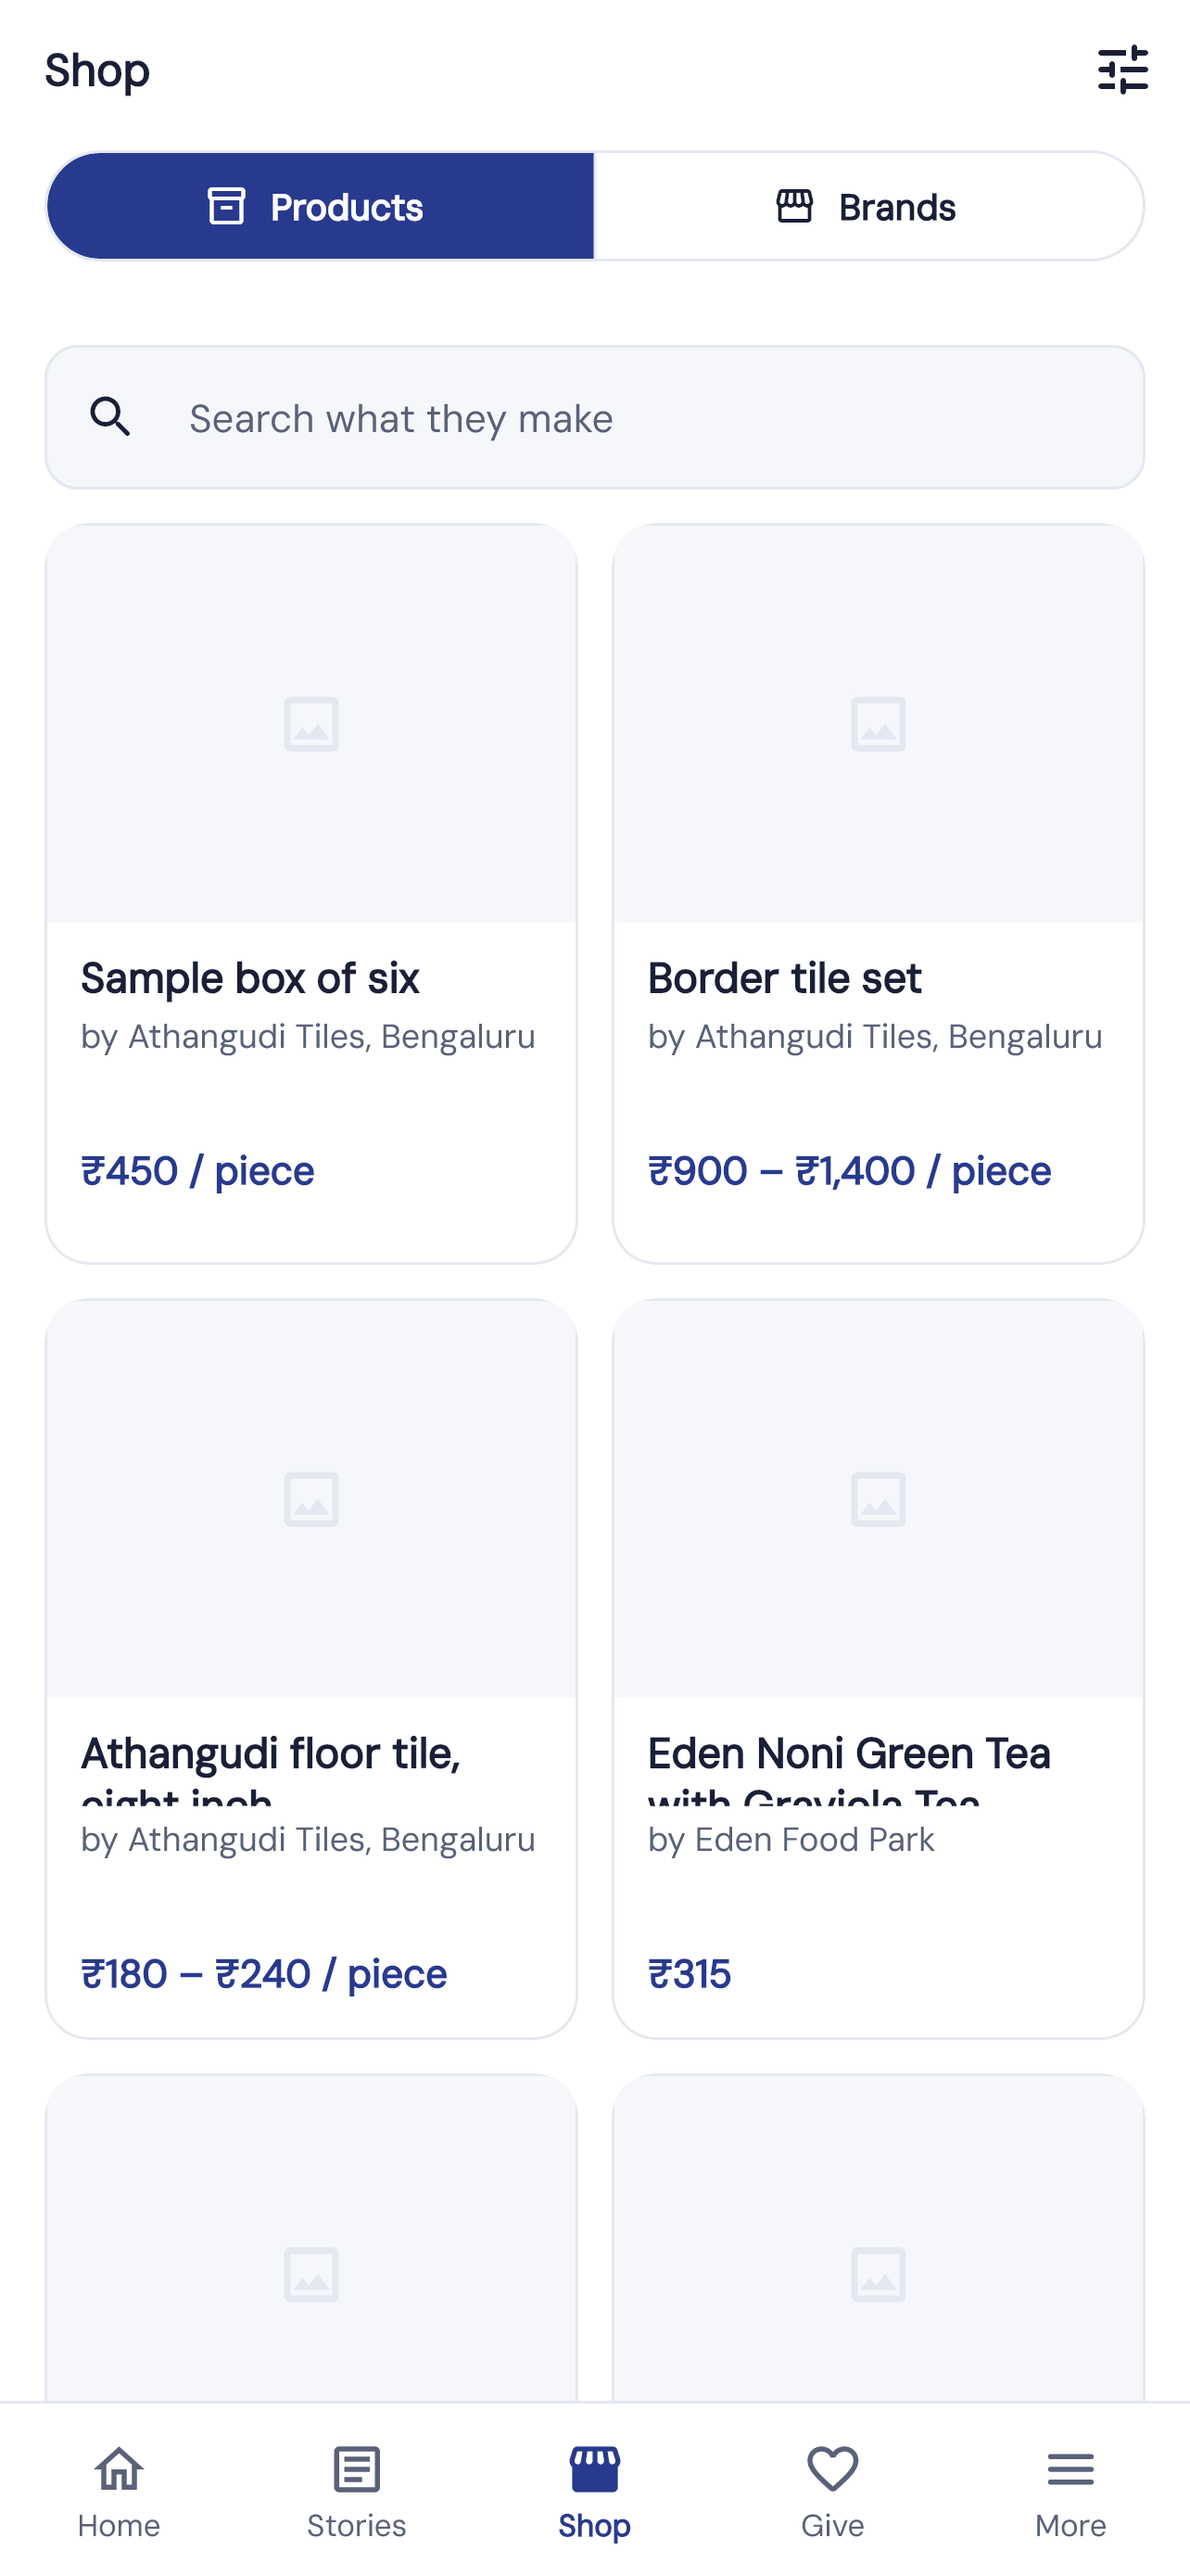
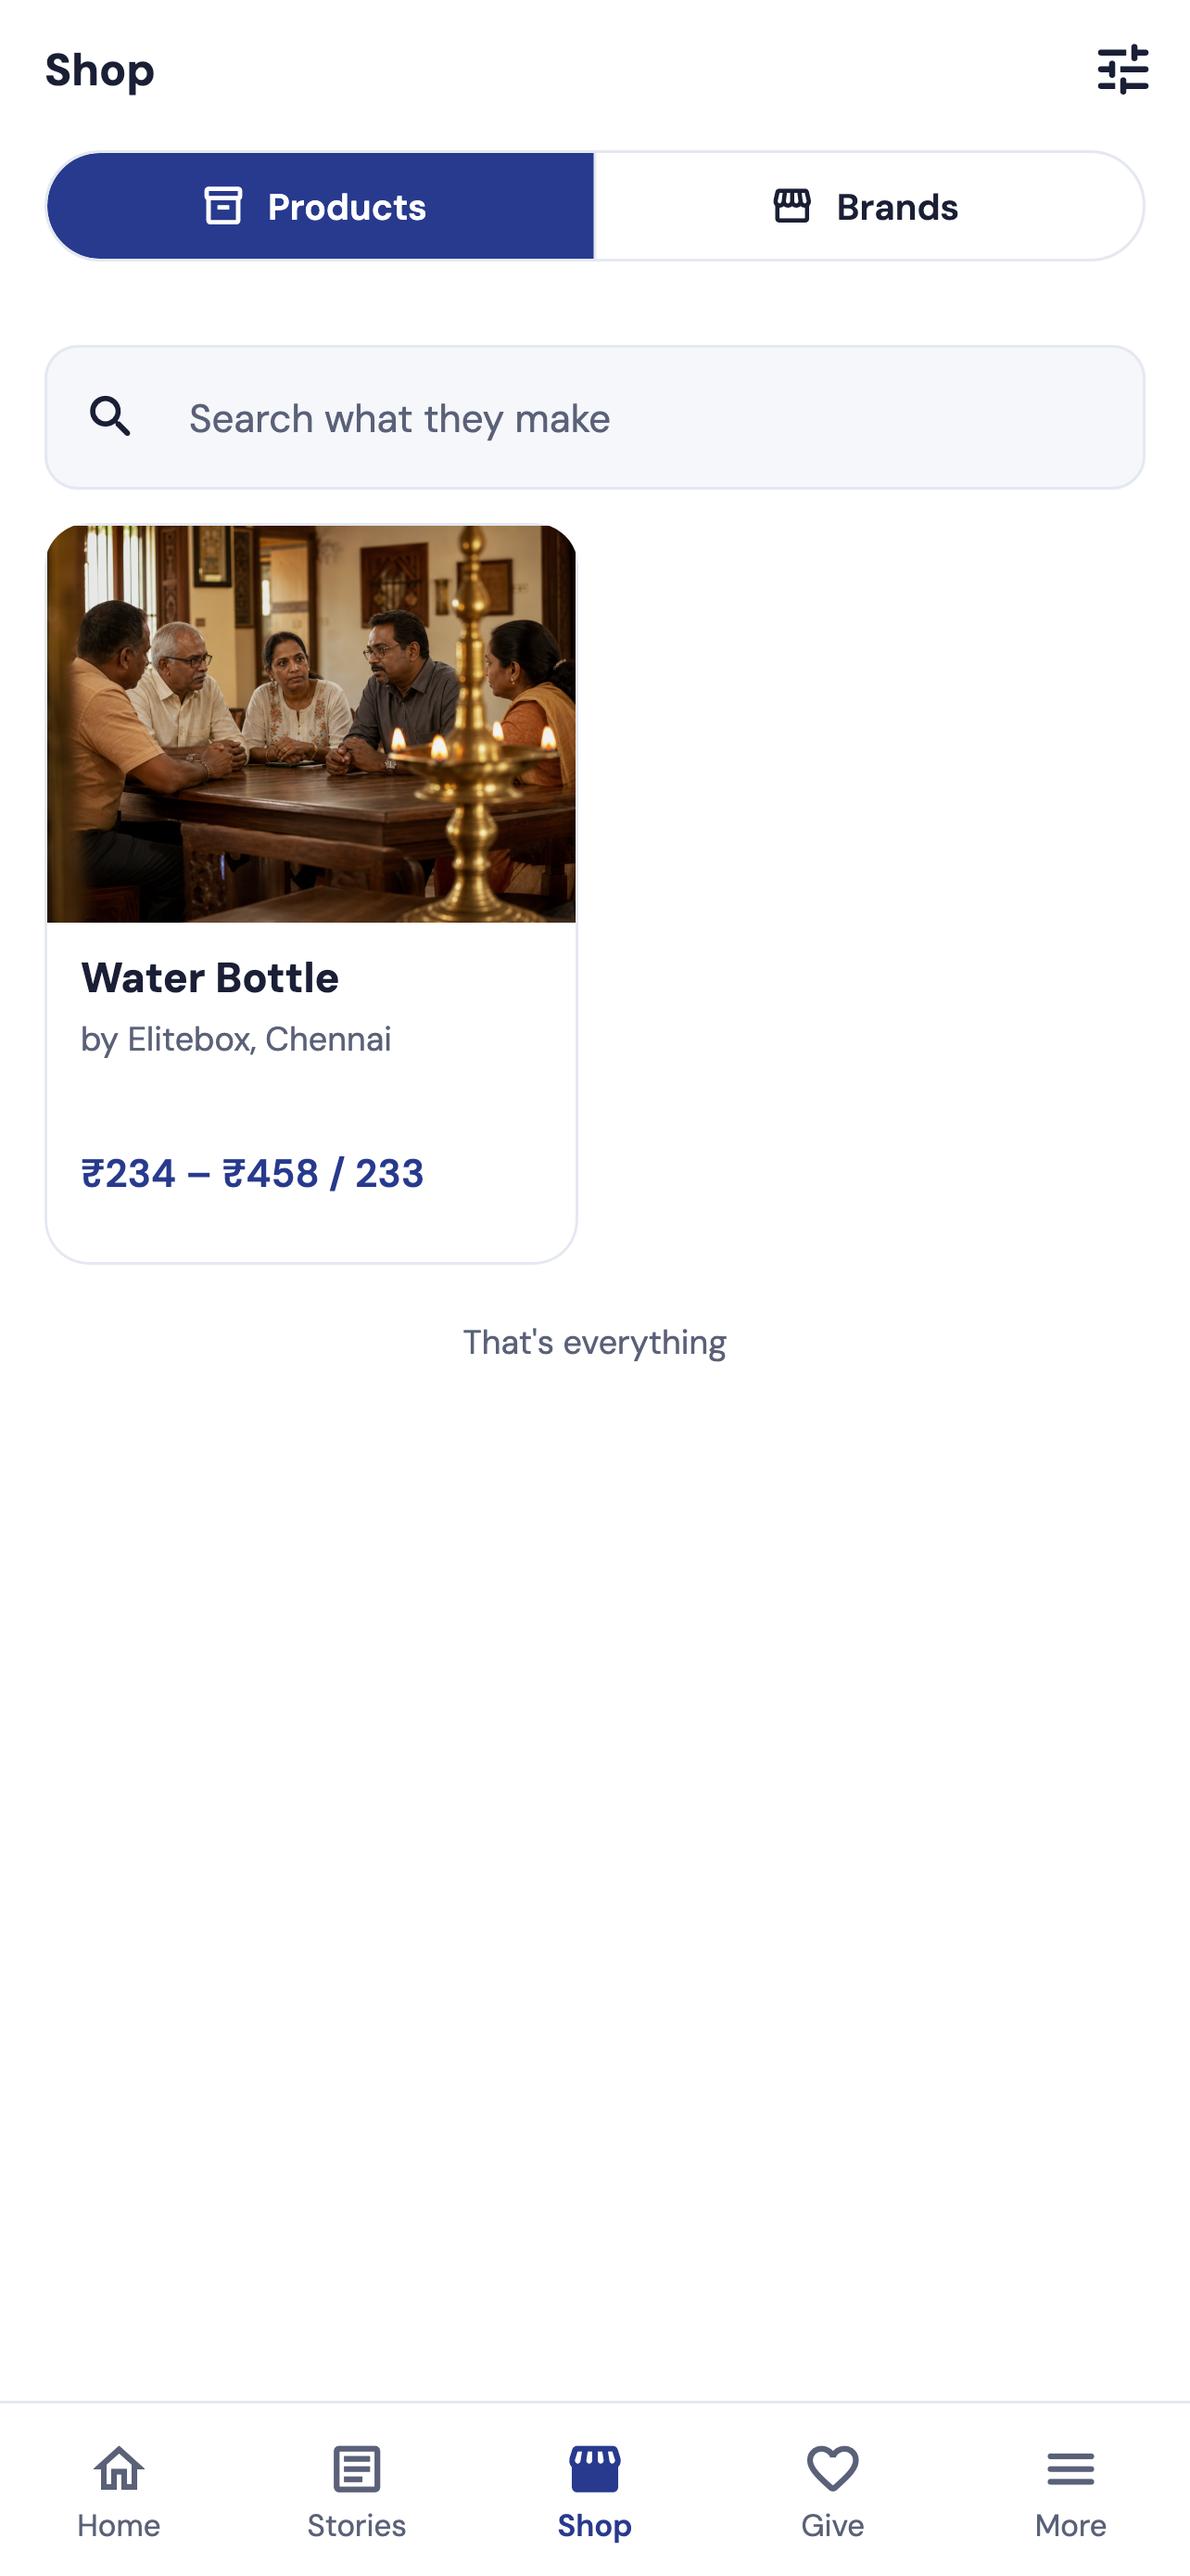
Load the pictures the screenshot tool was missing
The shop shot was a grid of empty grey boxes and the home page a grid of grey
rectangles where the subjects should be. Both for the same reason: `_loadImages`
predates the shop and the new front page, so product thumbnails, brand logos,
the category tiles, the footer banner, the CTA and promo images were never
fetched. AppImage's override then handed back null for each and every one of
them fell back to a placeholder.

Nothing said so. A card that cannot reach its photograph lays out perfectly.
The only symptom was the MissingPluginException for path_provider that the run
has been printing for weeks — an image not in the preload set falls through to
the real cache manager, which needs a temp directory a widget test does not
have. Preloading the rest of them silences it: 73 of 73 now, and all seven pass.

Emoji come from Apple Color Emoji, registered into each family rather than
beside it: a FontLoader given several files makes one family and falls through
for a missing glyph, which is the only fallback chain available under
`flutter test`. Editors put emoji in headings, and they were rendering as tofu
in the listing artwork while looking correct on a phone. The path is macOS-only
and `register` skips what does not exist, so nothing breaks elsewhere.

Screenshots re-shot against 1.1.0 and flattened to RGB, which App Store Connect
requires and reports as a dimension error when missing.

diff --git a/tool/screenshots.dart b/tool/screenshots.dart
@@ -167,6 +167,20 @@ Future<void> _loadImages(_Snapshot s) async {
   for (final b in s.home.banners) {
     add(b.bestImage);
   }
+  // The rest of the front page. The category tiles are the visible ones —
+  // without them the home screenshot is a grid of grey rectangles where the
+  // subjects should be — but every one of these renders a placeholder just as
+  // quietly if it is missed.
+  add(s.home.footerBanner?.bestImage);
+  add(s.home.ctaImage);
+  add(s.home.promoImages.craft);
+  add(s.home.promoImages.discover);
+  for (final tile in s.home.postCategories) {
+    add(tile.image);
+  }
+  for (final t in s.home.testimonials) {
+    add(t.avatar);
+  }
   for (final p in [...s.home.featuredStories, ...s.posts.items, ...s.trending]) {
     add(p.thumbnail);
   }
@@ -183,6 +197,21 @@ Future<void> _loadImages(_Snapshot s) async {
   }
   for (final g in s.galleries.items) {
     add(g.cover);
+  }
+  // The shop. Without these every product card renders its placeholder, and
+  // the listing screenshot is a grid of empty grey boxes — which is what it
+  // was, because a card that cannot reach its photograph still lays out
+  // perfectly and nothing in the run says a word.
+  for (final product in s.products.items) {
+    add(product.thumbnail);
+  }
+  for (final brand in s.brands) {
+    add(brand.logo);
+  }
+  for (final detail in s.productDetails.values) {
+    for (final photo in detail.images) {
+      add(photo.url);
+    }
   }
   for (final section in s.press) {
     for (final item in section.items) {
@@ -297,7 +326,13 @@ Future<void> _loadFonts() async {
   // fontWeight. google_fonts sets both the per-weight family name and the
   // weight, so registering one file under every name renders each at its own
   // weight rather than flattening the lot to regular.
-  final text = _textFontPaths();
+  // The emoji face is registered into each family rather than alongside them.
+  // A FontLoader given several files makes one family of them, and the engine
+  // falls through to the next when a glyph is missing — which is the only way
+  // to get a fallback under `flutter test`, where there is no system chain to
+  // borrow. Editors put emoji in headings; without this they render as tofu
+  // boxes in a store screenshot while looking fine on the phone.
+  final text = [..._textFontPaths(), _emojiFontPath];
 
   for (final family in [
     'DMSans',
@@ -353,6 +388,10 @@ List<String> _textFontPaths() => [
     ];
 
 const _dmSansFile = 'build/fonts/DMSans.ttf';
+
+/// macOS only. `register` skips a path that does not exist, so a Linux CI box
+/// simply renders the tofu it renders today rather than failing.
+const _emojiFontPath = '/System/Library/Fonts/Apple Color Emoji.ttc';
 
 /// Downloads DM Sans once, into a build directory that is not committed.
 ///
